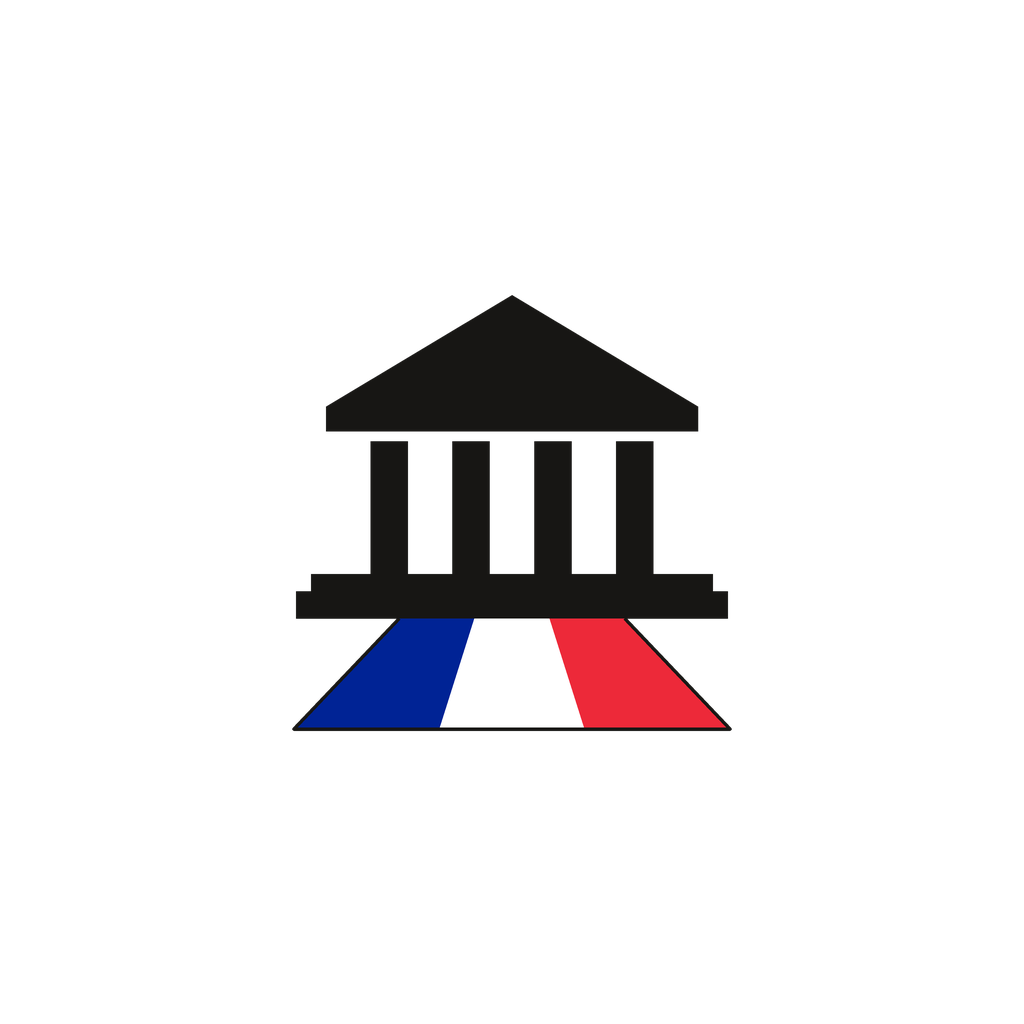
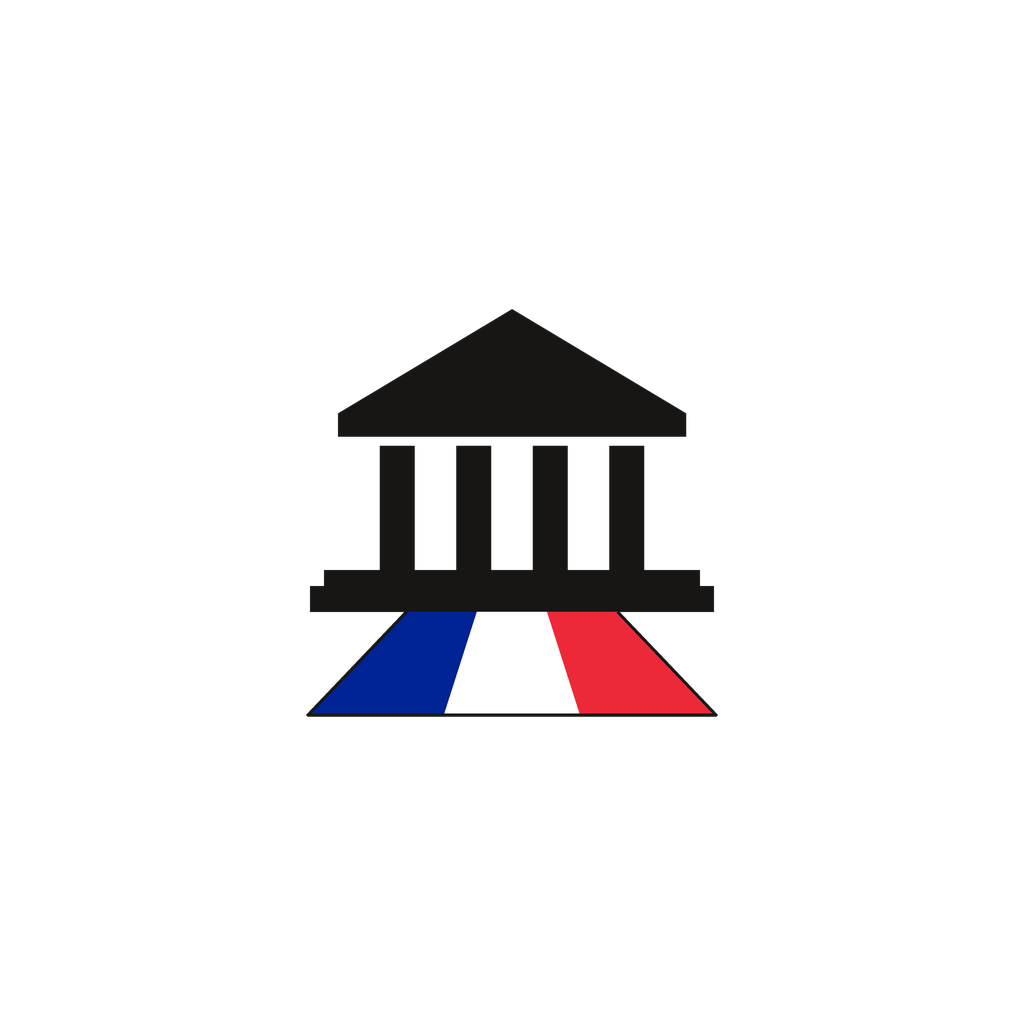
Relecture : zones tactiles sans chevauchement, coins concentriques, icones aux normes
Relecture du 16/10 (make-interfaces-feel-better, expo-native-ui, app-icon) :
- « Voir le mois » : sa marge negative faisait deborder sa zone de 48 pt de 8 pt
  sur les cases S et D de la semaine ; retiree.
- Bloc sombre : rayon 28 et bouton 12 (28 = 12 + 16 de marge), coins continus ;
  avant 22 et 16, le coin interieur paraissait pince.
- Contour du logo : rgba(0,0,0,0.1) au lieu d'un gris teinte.
- Colonne des heures : chiffres a chasse fixe.
- Icone Android adaptative et monochrome : echelle 0,58 (rayon du dessin 289 px
  pour une zone sure de 313 ; avant 310). Favicon en 192 x 192 (etait 48).

Verifie : tsc 0 ; invariant 7 3/3 ; parcours web et meme verite sans echec.

Claude-Session: https://claude.ai/code/session_01MWt914e4V82vLeXVGThBAb

diff --git a/mono/apps/mobile/src/app/(onglets)/chez-vous.tsx b/mono/apps/mobile/src/app/(onglets)/chez-vous.tsx
@@ -179,13 +179,13 @@ export default function ChezVous() {
              APRES les trois reponses (16/10/2026) : la reponse d'abord, la chaine
              ensuite. Il remplace l'entree « Qui décide » de « Aller plus loin » : deux
              chemins vers le meme ecran se faisaient concurrence. */}
-          <View style={{ backgroundColor: couleurs.encre, borderRadius: RAYON.carte, padding: PAS * 4, gap: PAS * 3 }}>
+          <View style={{ backgroundColor: couleurs.encre, borderRadius: 28, borderCurve: "continuous", padding: PAS * 4, gap: PAS * 3 }}>
             <View style={{ gap: PAS }}>
               <Text style={{ fontFamily: POLICE.affiche, fontSize: 26, lineHeight: 30, color: couleurs.sol, letterSpacing: -0.4 }} accessibilityRole="header">Qui décide chez vous ?</Text>
               <Text style={{ fontSize: 16, lineHeight: 22, color: couleurs.voile }}>{typo(`De la mairie à l'Assemblée nationale : qui décide de quoi pour ${nom}.`)}</Text>
             </View>
             <Pressable onPress={() => router.push("/qui-decide")} accessibilityRole="button" accessibilityLabel={`Voir la chaîne complète : qui décide pour ${nom}`}
-              style={({ pressed }) => ({ minHeight: 48, borderRadius: RAYON.bloc, backgroundColor: couleurs.sol, paddingHorizontal: PAS * 4, flexDirection: "row", alignItems: "center", justifyContent: "space-between", opacity: pressed ? 0.7 : 1 })}>
+              style={({ pressed }) => ({ minHeight: 48, borderRadius: 12, borderCurve: "continuous", backgroundColor: couleurs.sol, paddingHorizontal: PAS * 4, flexDirection: "row", alignItems: "center", justifyContent: "space-between", opacity: pressed ? 0.7 : 1 })}>
               <Text style={{ fontSize: 16, fontWeight: "700", color: couleurs.encre }}>Voir la chaîne complète</Text>
               <Text accessibilityElementsHidden importantForAccessibility="no" style={{ fontSize: 16, fontWeight: "700", color: couleurs.encre }}>→</Text>
             </Pressable>

diff --git a/mono/apps/mobile/src/app/(onglets)/a-venir.tsx b/mono/apps/mobile/src/app/(onglets)/a-venir.tsx
@@ -56,7 +56,7 @@ function Ligne({ g }: { g: Groupe }) {
     <View testID="cal-ligne" style={{ flexDirection: "row", gap: PAS * 3, paddingTop: PAS * 3, borderTopWidth: 1, borderTopColor: couleurs.trait }}>
       {heure ? (
         <View style={{ width: 64 }}>
-          <Text style={{ fontFamily: POLICE.affiche, fontSize: 22, lineHeight: 26, color: couleurs.encre }}>{heure}</Text>
+          <Text style={{ fontFamily: POLICE.affiche, fontSize: 22, lineHeight: 26, color: couleurs.encre, fontVariant: ["tabular-nums"] }}>{heure}</Text>
         </View>
       ) : null}
       <View style={{ flex: 1, gap: PAS }}>
@@ -168,7 +168,7 @@ export default function AVenir() {
                  qu'elle explique, et la note sur les rappels passe sous la liste. */}
               <Pressable onPress={() => setMois(m => !m)} accessibilityRole="button"
                 accessibilityLabel={mois ? "Voir la semaine" : "Voir le mois"}
-                style={({ pressed }) => ({ minHeight: CIBLE, justifyContent: "center", alignSelf: "flex-end", opacity: pressed ? 0.6 : 1, marginBottom: -PAS * 2 })}>
+                style={({ pressed }) => ({ minHeight: CIBLE, justifyContent: "center", alignSelf: "flex-end", opacity: pressed ? 0.6 : 1 })}>
                 <Text style={{ color: couleurs.encre, fontWeight: "700", textDecorationLine: "underline" }}>{mois ? "Voir la semaine" : "Voir le mois"}</Text>
               </Pressable>
               {/* Semaine ou mois : un seul choix de jour, en haut de l'ecran. */}

diff --git a/mono/apps/mobile/src/ui/marque.tsx b/mono/apps/mobile/src/ui/marque.tsx
@@ -13,7 +13,7 @@ export function Marque() {
   return (
     <View accessible accessibilityRole="header" accessibilityLabel="Repère" style={{ flexDirection: "row", alignItems: "center", gap: PAS * 2 }}>
       <Image source={require("../../assets/icon.png")} accessibilityElementsHidden importantForAccessibility="no"
-        style={{ width: 30, height: 30, borderRadius: 7, borderWidth: StyleSheet.hairlineWidth, borderColor: couleurs.trait }} />
+        style={{ width: 30, height: 30, borderRadius: 7, borderWidth: StyleSheet.hairlineWidth, borderColor: "rgba(0,0,0,0.1)" }} />
       <Text style={{ fontFamily: POLICE.affiche, fontSize: 24, lineHeight: 28, color: couleurs.encre, letterSpacing: -0.4 }}>Repère</Text>
     </View>
   );

diff --git a/outils/marque_repere.py b/outils/marque_repere.py
@@ -107,12 +107,14 @@ def principal():
     blanc = rgb(FOND) + (255,)
     transparent = (0, 0, 0, 0)
     ecrire("icon.png", image(1024, blanc), "RGB")
-    # Android adaptatif : le dessin tient dans la zone sure (66 % du cote).
-    ecrire("android-icon-foreground.png", image(1024, transparent, echelle=0.62), "RGBA")
+    # Android adaptatif : le dessin tient dans la zone sure (cercle de 66/108 du cote),
+    # avec une marge (mesure du 16/10 : 310 px de rayon pour 313 a l'echelle 0,62).
+    ecrire("android-icon-foreground.png", image(1024, transparent, echelle=0.58), "RGBA")
     ecrire("android-icon-background.png", Image.new("RGB", (1024, 1024), rgb(FOND)), "RGB")
-    ecrire("android-icon-monochrome.png", image(1024, transparent, echelle=0.62, mono=True), "RGBA")
+    ecrire("android-icon-monochrome.png", image(1024, transparent, echelle=0.58, mono=True), "RGBA")
     ecrire("splash-icon.png", image(1024, transparent, echelle=0.9), "RGBA")
-    ecrire("favicon.png", image(48, blanc), "RGB")
+    # 192 x 192 : la taille attendue pour le web (favicon et ecran d'accueil).
+    ecrire("favicon.png", image(192, blanc), "RGB")
 
 
 if __name__ == "__main__":
